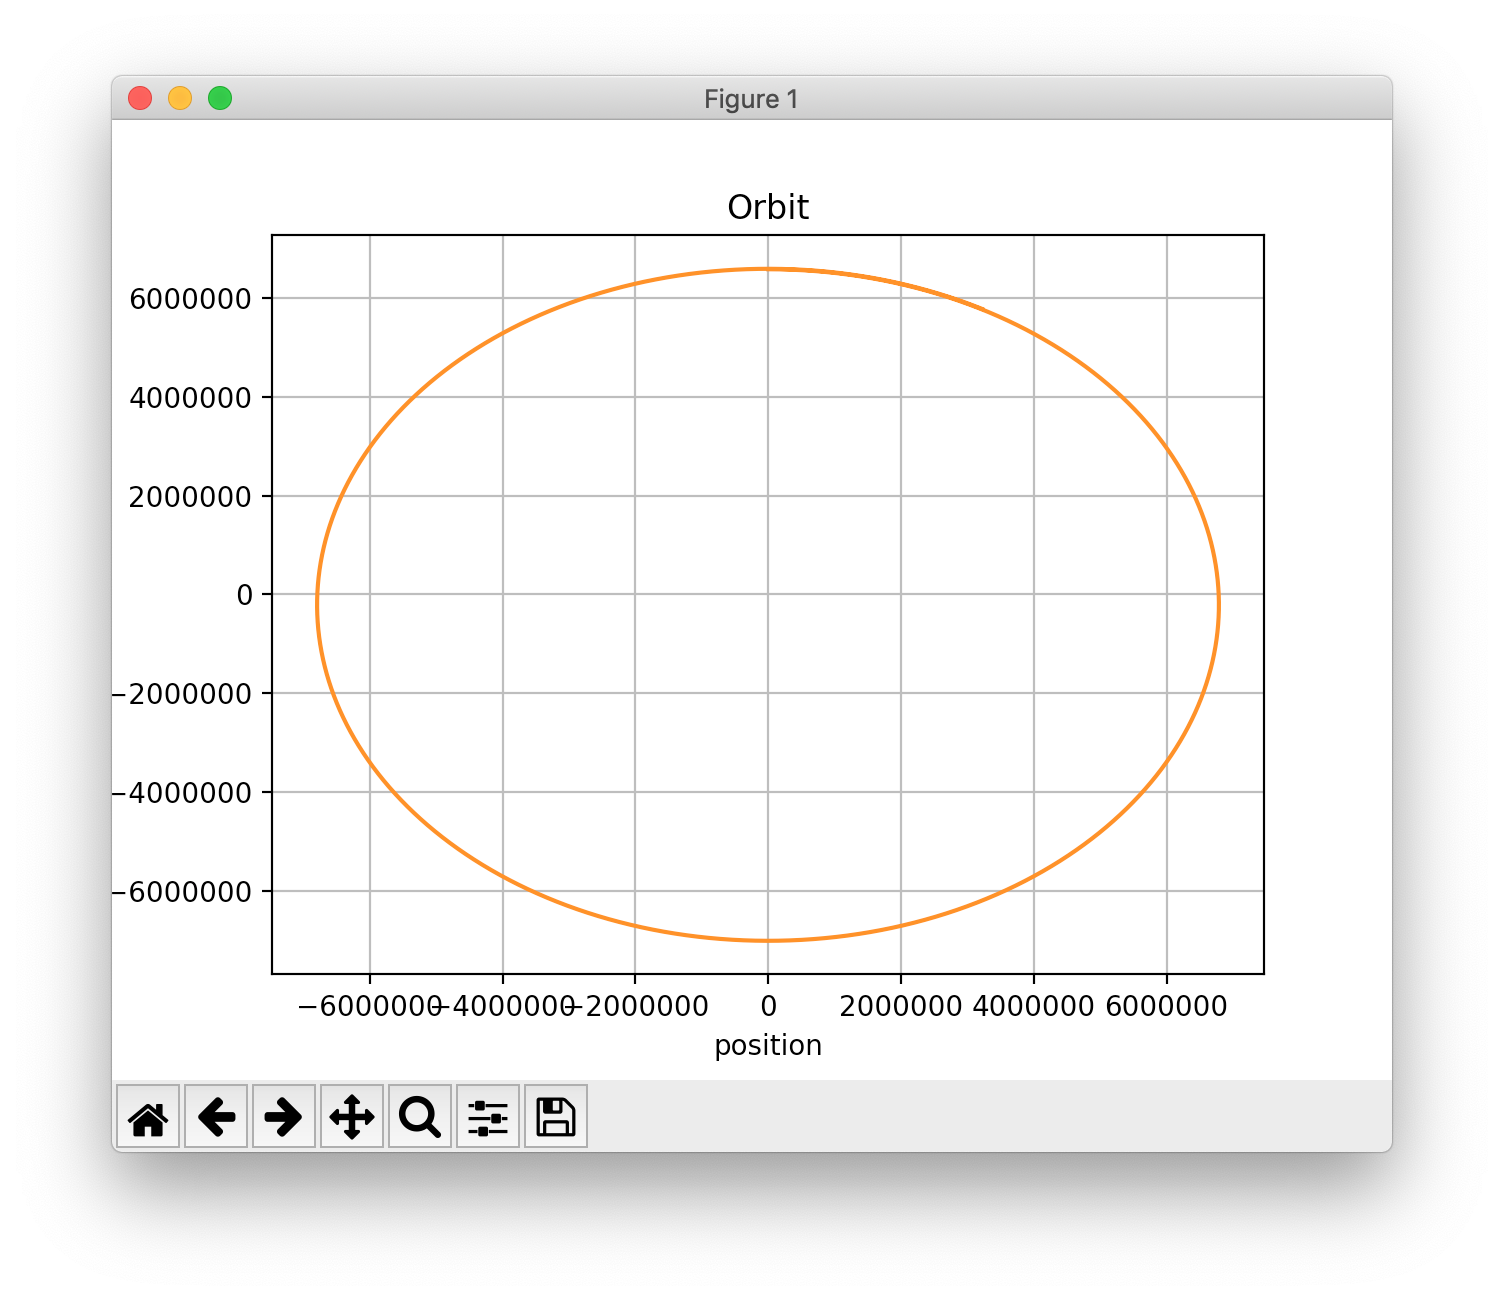
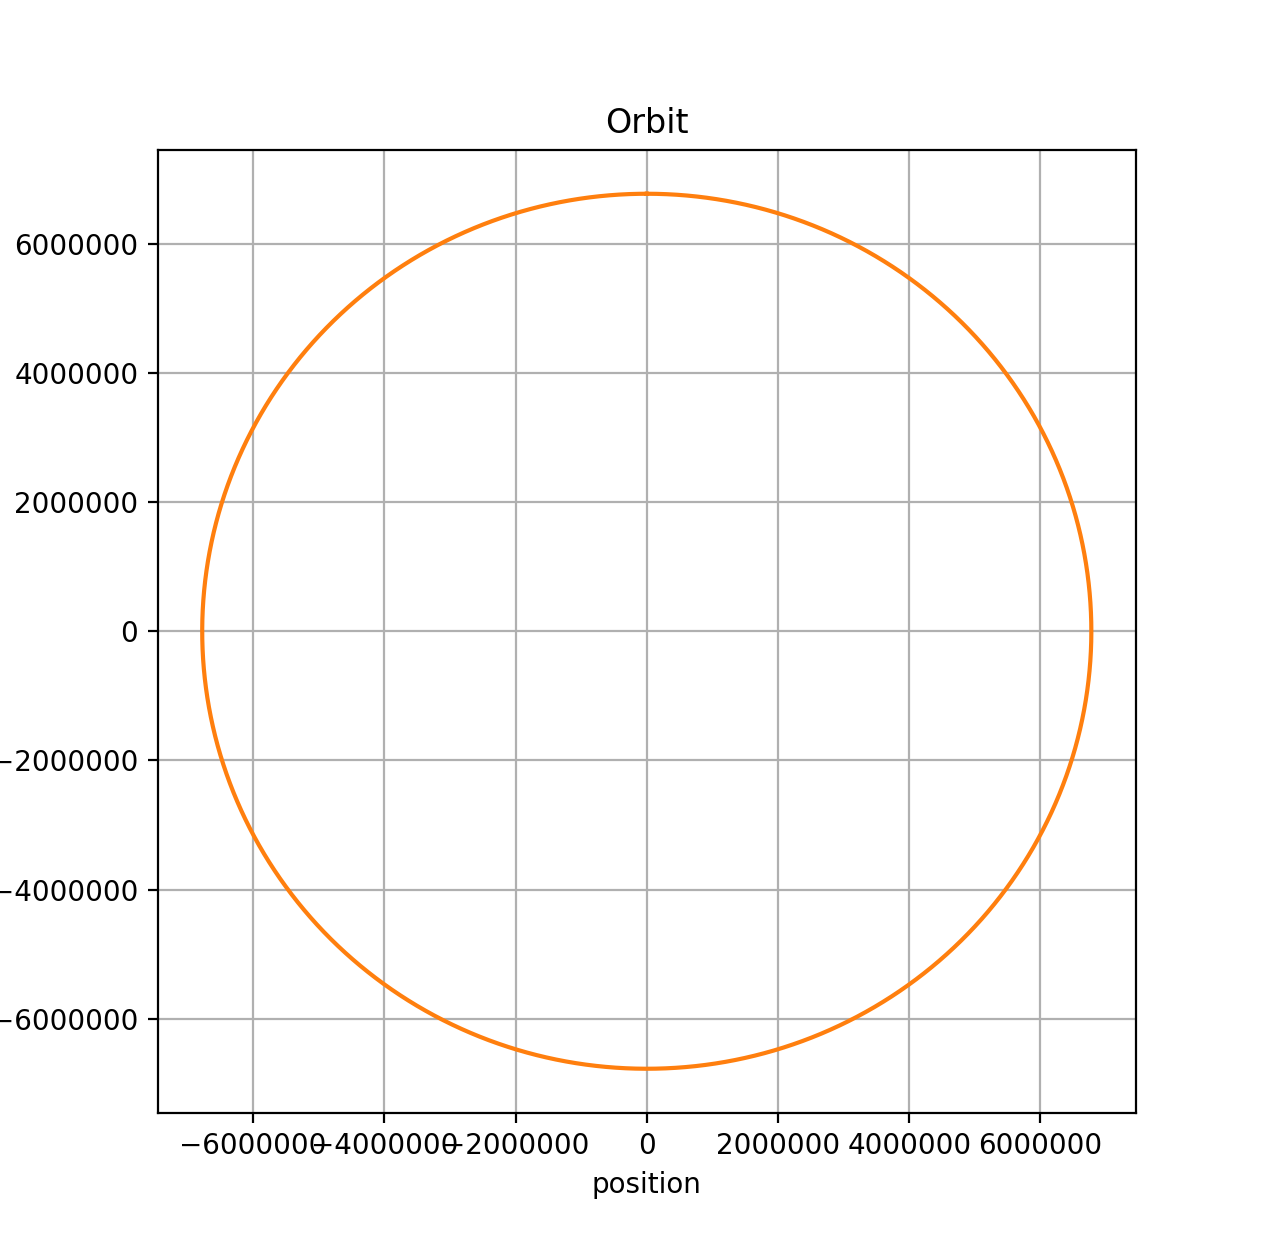
Improve the organization and description of the Orbit example sim for SAIntegrator, in prep for tutorial.

diff --git a/trick_source/trick_utils/SAIntegrator/examples/Orbit/Orbit.cpp b/trick_source/trick_utils/SAIntegrator/examples/Orbit/Orbit.cpp
@@ -10,13 +10,14 @@ struct Orbit {
     double pos[2];
     double vel[2];
     double planet_mass;
+    Orbit(double px, double py, double vx, double vy, double m);
 };
-void init_state ( Orbit& orbit ) {
-    orbit.pos[0] = 0.0;
-    orbit.pos[1] = 6578000.0;
-    orbit.vel[0] = 7905.0;
-    orbit.vel[1] = 0.0;
-    orbit.planet_mass = EARTH_MASS;
+Orbit::Orbit(double px, double py, double vx, double vy, double m) {
+    pos[0] = px;
+    pos[1] = py;
+    vel[0] = vx;
+    vel[1] = vy;
+    planet_mass = m;
 }
 void print_header() {
     printf ("time, orbit.pos[0], orbit.pos[1], orbit.vel[0], orbit.vel[1]\n");
@@ -32,16 +33,25 @@ void G( double t, double pos[], double vel[], double acc_out[], void* udata) {
     acc_out[1] = -pos[1] * GRAVITATIONAL_CONSTANT * orbit->planet_mass / (d*d*d);
 }
 int main ( int argc, char* argv[]) {
-    Orbit orbit;
-    double time = 0.0;
+
+    const double altitude_AGL = 408000.0;            // m
+
+    double mu = GRAVITATIONAL_CONSTANT * EARTH_MASS; // m^3s^2
+    double R_bar_mag = EARTH_RADIUS + altitude_AGL;  // m
+    double V_bar_mag = sqrt(mu / R_bar_mag);         // m/s
+    double Orbital_period = 2 * M_PI * sqrt((R_bar_mag * R_bar_mag * R_bar_mag) / mu); // s
+
+    double dt = 0.1; // s
+    Orbit orbit(0.0, R_bar_mag, V_bar_mag, 0.0, EARTH_MASS);
     double* x_p[2] = { &orbit.pos[0], &orbit.pos[1] };
     double* v_p[2] = { &orbit.vel[0], &orbit.vel[1] };
-    double dt = 0.1;
-    init_state(orbit);
+
+    double time = 0.0; // s
+
     print_header();
     print_state(time, orbit);
     SA::EulerCromerIntegrator integ(dt, 2, x_p, v_p, G, &orbit);
-    while (time < 5600) {
+    while (time < Orbital_period) {
         integ.integrate();
         time = integ.getIndyVar();
         print_state(time, orbit);

diff --git a/trick_source/trick_utils/SAIntegrator/examples/Orbit/README.md b/trick_source/trick_utils/SAIntegrator/examples/Orbit/README.md
@@ -1,17 +1,41 @@
 # Orbit
 
-This program uses the *SemiImplicitEuler* integrator to simulate the orbit of an Earth satellite.
+The Orbit program uses the *SA::EulerCromerIntegrator* class to simulate
+the orbit of a satellite around the Earth.
+
+The altitude of the satellite is chosen to be 408000.0 meters, the
+approximate altitude of the International Space Station. The initial
+position, and velocity of the satellite is calculated to maintain a
+circular orbit around the Earth. The orbital period is also calculated,
+to determine how long the simulation should run to complete a full orbit.
+
+For each numerical integration time-step, the simulation program prints:
+
+1. time (s)
+2. 2D position vector (m)
+3. 2D velocity vector (m/s)
+
+to ```stdout```, in Comma Separated Values (CSV) format.
+
+### Building & Running the Simulation Program
 
 Generate the results as follows:
+
 ```
 $ make
 $ ./Orbit > orbit.csv
 ```
+### Plotting the Results
+The Python script, ```plot_position.py``` is provided to plot the results
+in ```orbit.csv``` using (Python) matplotlib.
 
-Plot the results as follows:
+Plot position vector for the orbit duration as follows:
 
 ```
 $ python plot_position.py
 ```
 
 ![Orbit](images/Orbit.png)
+
+### References:
+[https://en.wikipedia.org/wiki/Circular_orbit](https://en.wikipedia.org/wiki/Circular_orbit)
